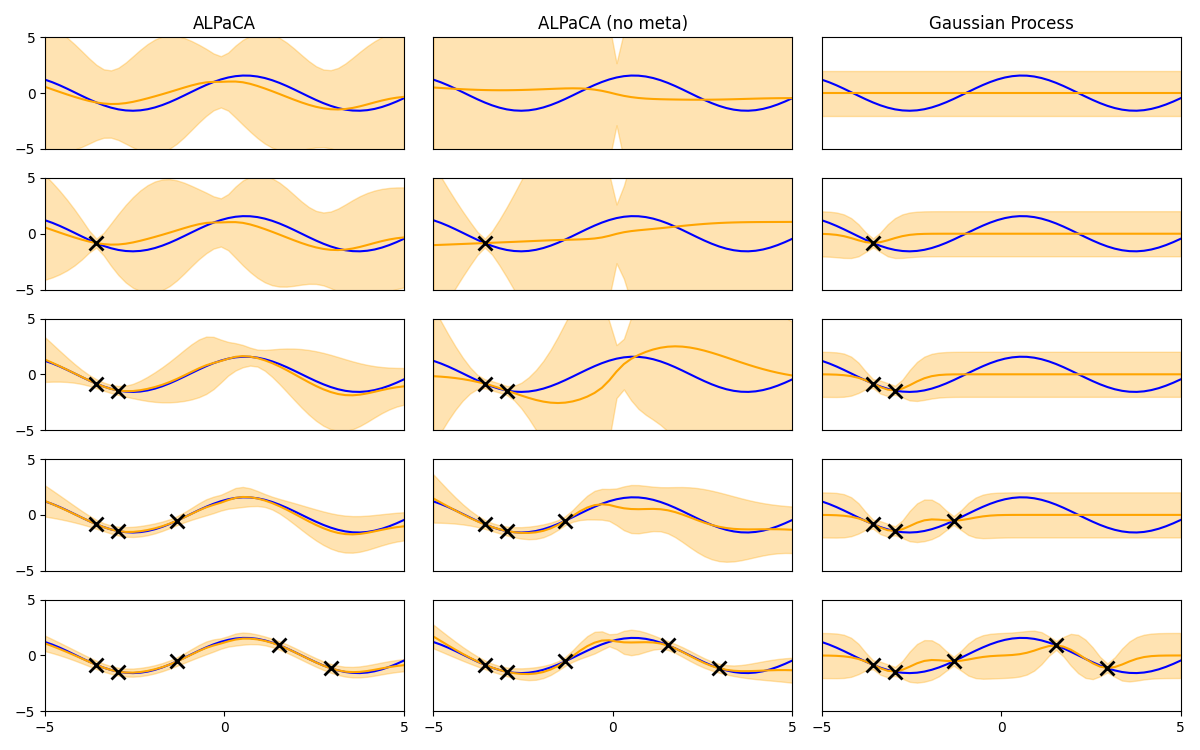
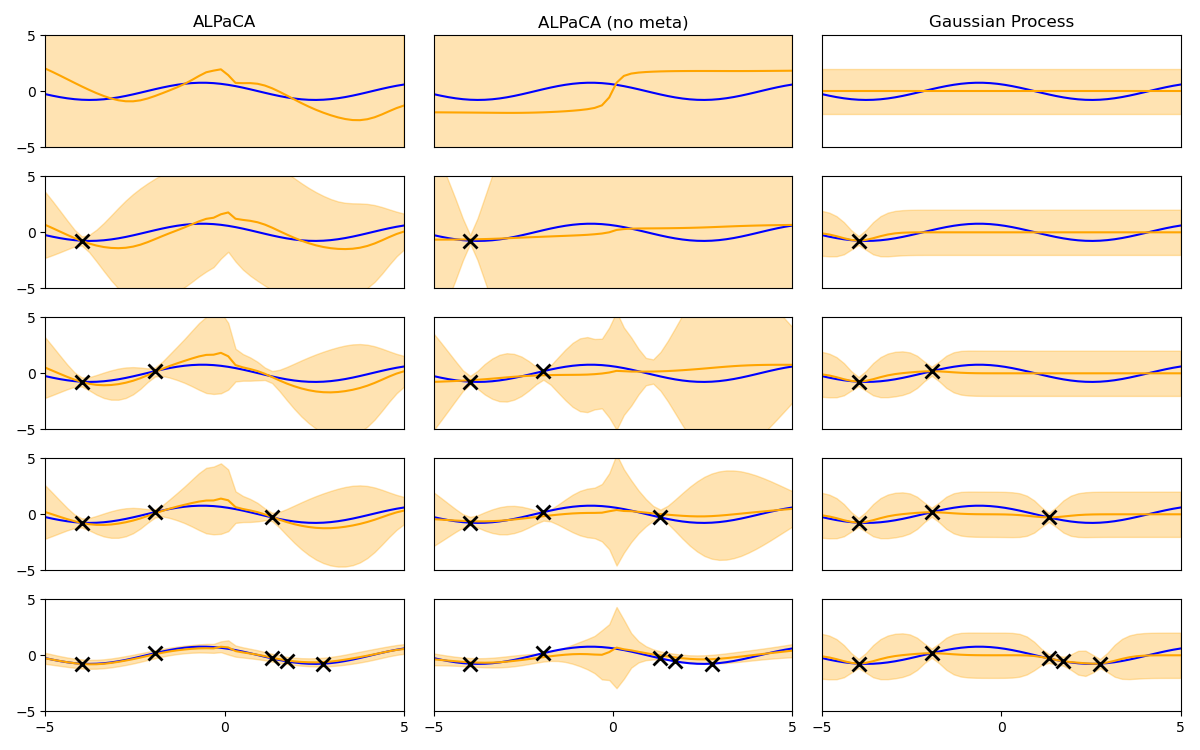
new loss

diff --git a/alpaca.py b/alpaca.py
@@ -31,7 +31,7 @@ class ALPaCA(nn.Module):
         return (self.Kbar_0.T[None, :, :] @ phi_x[..., None]).squeeze(-1)
 
     def loss_offline(
-        self, params: dict, D: tuple[jnp.ndarray, jnp.ndarray], rng_key: jax.Array
+        self, params: dict, D: tuple[jnp.ndarray, jnp.ndarray], masks: jnp.ndarray
     ) -> jnp.ndarray:
         """
         Offline training of the ALPaCA algorithm.
@@ -42,6 +42,7 @@ class ALPaCA(nn.Module):
                 - Dxs (jnp.ndarray): input trajectories with shape (J, tau, n_x)
                 - Dys (jnp.ndarray): target trajectories with shape (J, tau, n_y)
                 - Mini-batch of J trajectories from a dataset of M trajectories.
+            masks (jax.ndarray): mask for the trajectories, shape (J, tau)
 
         Returns:
             jnp.ndarray: averaged loss across sampled trajectories.
@@ -52,40 +53,40 @@ class ALPaCA(nn.Module):
         # split dataset and initialize RNG keys
         Dxs, Dys = D
         J, tau, _ = Dxs.shape
-        rng_key, subkey = jax.random.split(rng_key, 2)
-        t_js = jax.random.randint(subkey, (J,), 0, tau - 1)
 
         loss = 0.0
-        # I tried vmaping this but trajectory length is variable
-        # TODO: figure out if we can pad the data to a fixed length
         # TODO: average loss over entire trajectory length.
         #       See last sentence p. 7 of the paper.
         for j in range(J):
             # sample data for current index
-            Dx_j = Dxs[j, : t_js[j], :]  # (t_j, n_x)
-            Y_j = Dys[j, : t_js[j], :]  # (t_j, n_y)
-            x_jp1 = Dxs[j, t_js[j], :]  # (n_x)
-            y_jp1 = Dys[j, t_js[j], :]  # (n_y)
+            mask = masks[j]  # (tau, 1)
+            prediction_index = jnp.sum(mask, dtype=int)  # (1)
+            Dx_j = Dxs[j]  # (tau, n_x)
+            Y_j = Dys[j]  # (tau, n_y)
+            x_jp1 = Dxs[j, prediction_index, :]  # (n_x)
+            y_jp1 = Dys[j, prediction_index, :]  # (n_y)
 
             # compute NN features
-            Phi_j = self.phi.apply(params, Dx_j)  # (t_j, n_phi)
+            Phi_j = self.phi.apply(params, Dx_j)  # (tau, n_phi)
             phi_jp1 = self.phi.apply(params, x_jp1)  # (n_phi)
 
             # compute Lambda_j and Sigma_jp1 using stable solve instead of inv
             Lambda_0 = L0 @ L0.T
-            Lambda_j = Phi_j.T @ Phi_j + Lambda_0
+            Lambda_j = Phi_j.T @ (mask * Phi_j) + Lambda_0
             Lambda_j_inv_phi = jnp.linalg.solve(Lambda_j, phi_jp1)  # avoid inversion
             Sigma_jp1 = (1 + phi_jp1.T @ Lambda_j_inv_phi) * self.Sigma_eps
 
             # compute Kbar_j
-            Kbar_j = jnp.linalg.solve(Lambda_j, Phi_j.T @ Y_j + Lambda_0 @ Kbar_0)
+            Kbar_j = jnp.linalg.solve(Lambda_j, Phi_j.T @ (mask * Y_j) + Lambda_0 @ Kbar_0)
 
             # loss
             y_delta = y_jp1 - Kbar_j.T @ phi_jp1
             loss += (
                 self.n_y * jnp.log(1 + phi_jp1.T @ Lambda_j_inv_phi)
                 + y_delta.T @ jnp.linalg.solve(Sigma_jp1, y_delta)
-            ) / J
+            )
+            
+        loss /= J
 
         return loss
 

diff --git a/train.py b/train.py
@@ -61,20 +61,21 @@ def main():
     )
 
     # Define training step
-    # @jax.jit
-    def train_step(state, D, rng_key):
-        loss, grads = jax.value_and_grad(model.loss_offline)(state.params, D, rng_key)
-        state = state.apply_gradients(grads=grads)
+    @jax.jit
+    def train_step(state, D, masks):
+        loss, grads = jax.value_and_grad(model.loss_offline)(state.params, D, masks)
 
         # Set Kbar_0 and L0 gradients to zero if not meta-learning
         if not meta_learn:
             grads["params"]["Kbar_0"] = jnp.zeros_like(grads["params"]["Kbar_0"])
             grads["params"]["L0"] = jnp.zeros_like(grads["params"]["L0"])
 
+        state = state.apply_gradients(grads=grads)
+        
         return state, loss
 
     # Training parameters
-    num_epochs = 500
+    num_epochs = 1000
     J = 10  # Mini-batch size
 
     # Since the loss function uses the entire dataset, we might need to implement batching
@@ -85,12 +86,19 @@ def main():
     try:
         for epoch in range(num_epochs):
             # Update random key
-            key, subkey_shuffle, subkey_loss = jax.random.split(key, 3)
+            key, subkey_shuffle, subkey_masks = jax.random.split(key, 3)
 
             # Shuffle data
             permutation = jax.random.permutation(subkey_shuffle, M)
             Dxs_shuffled = Dxs[permutation]
             Dys_shuffled = Dys[permutation]
+
+            # Sample trajectory lengths and create masks
+            trajectory_lengths = jax.random.randint(subkey_masks, (J,), 1, tau + 1)
+            indices = jnp.arange(tau)  # (tau,)
+            indices = indices[None, :]    # (1, tau)
+            masks = (indices < trajectory_lengths[:, None]).astype(jnp.float32) # (J, tau)
+            masks = masks[:, :, jnp.newaxis]  # add axis for easy broadcasting later
 
             epoch_loss = 0.0
             for i in range(num_batches):
@@ -100,10 +108,8 @@ def main():
                 D_batch = (Dxs_shuffled[start:end], Dys_shuffled[start:end])
 
                 # Perform a training step
-                state, loss = train_step(state, D_batch, subkey_loss)
+                state, loss = train_step(state, D_batch, masks)
                 epoch_loss += loss
-
-                print(f"    Batch {i}, Loss: {loss}")
 
             epoch_loss /= num_batches
             losses.append(epoch_loss)

diff --git a/README.md b/README.md
@@ -1,6 +1,6 @@
 # Implementation of "Meta-Learning Priors for Efficient Online Bayesian Regression"
 
-Barebones implementation I made to understand GP's and meta-learning.
+JAX implementation I made to understand GP's and meta-learning.
 
 Find my blogpost [here](https://palafox.info/research/gps).
 
@@ -8,6 +8,6 @@ Read the paper [here](https://arxiv.org/abs/1807.08912).
 
 Code should be pretty self-explanatory.
 
-Example plot given by `test.py` meant to reroduces Figure 2 from the paper:
+Example plot given by `test.py` meant to reproduces Figure 2 from the paper:
 
 <img src="figures/predictions.png" alt="predictions" width=400/>
